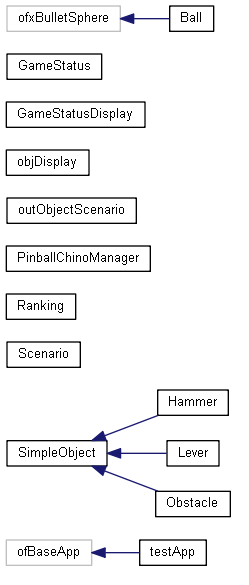
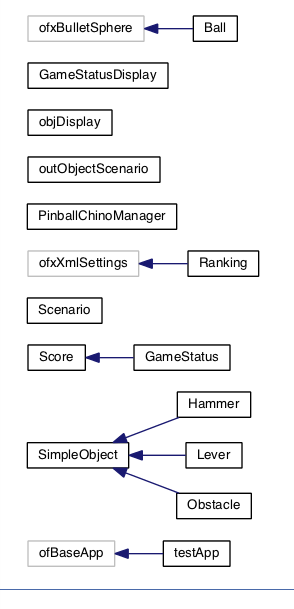
ranking now loading from xml

Changed region(s): [[0.0, 0.0, 1.0, 0.9846]]

diff --git a/src/Managers/Ranking.cpp b/src/Managers/Ranking.cpp
@@ -1,10 +1,68 @@
 #include "Ranking.h"
 
+//------------------------------
 Ranking::Ranking(void){
+
+    
+
 }
 
+//------------------------------
 void Ranking::saveXmlScore(Score score){
+    rank.push_back(score);
+    
+    addTag("ranking");
+    pushTag("ranking");
+    
+    for(int i = 0; i < rank.size(); i++){
+        
+        addTag("score");
+        pushTag("score",i);
+        
+        addValue("idPlayer", rank[i].idPlayer);
+        addValue("lastMission", rank[i].lastMission);
+        addValue("points", rank[i].points);
+        popTag();//pop position
+    }
+    popTag(); //pop position
+    saveFile("ranking.xml");
 }
 
+//-----------------------------
 void Ranking::loadXmlRanking(){
+    
+    
+    if(loadFile("ranking.xml")){
+        pushTag("ranking");
+        numberOfSavedPoints = getNumTags("score");
+        for(int i = 0; i < numberOfSavedPoints; i++){
+            pushTag("score", i);
+            
+            Score s;
+            s.idPlayer = getValue("idPlayer", 0);
+            s.lastMission = getValue("lastMission", 0);
+            s.points = getValue("points", 0);
+            
+            rank.push_back(s);
+            popTag();
+        }
+        
+        popTag(); //pop position
+    }
+    else{
+        ofLogError("Position file did not load!");
+    }
+
+}
+
+//-----------------------------
+Score Ranking::getMaxScore(void){
+    Score maxScore;
+    maxScore.points = 0;
+    for(int i = 0; i < rank.size(); i++){
+        if (maxScore.points < rank[i].points)
+            maxScore = rank[i];
+    }
+    
+    return maxScore;
 }

diff --git a/src/Managers/GameStatus.cpp b/src/Managers/GameStatus.cpp
@@ -30,12 +30,24 @@ void GameStatus::NewPlayer(void){
 	idPlayer += 1;
 	points = 0;
     status = SETTING_UP_THE_GAME;
+    myRanking.loadXmlRanking();
     
 }
 
 //---------------------------------------
 void GameStatus::saveRanking(void){
+    Score score;
+    
+    score.idPlayer = idPlayer;
+    score.lastMission = lastMission;
+    score.points = points;
+    myRanking.saveXmlScore(score);
+    
+}
 
+//---------------------------------------
+Score GameStatus::getBestScore(void){
+    return myRanking.getMaxScore();
 }
 
 //---------------------------------------

diff --git a/src/Managers/Ranking.h b/src/Managers/Ranking.h
@@ -1,10 +1,17 @@
 #pragma once
 #include "Score.h"
+#include "ofxXmlSettings.h"
 
-class Ranking: public Score{
+class Ranking: public ofxXmlSettings
+{
 public:
 	Ranking(void);
 	void saveXmlScore(Score score);
 	void loadXmlRanking();
-
+    Score getMaxScore(void);
+private:
+    int numberOfSavedPoints;
+    vector<Score> rank;
+                   
+                   
 };

diff --git a/src/Managers/GameStatus.h b/src/Managers/GameStatus.h
@@ -30,6 +30,10 @@ public:
 	int GetPlayerId(void);
     int GetCurrentPlayerScore(void);
     
+    Score getBestScore(void);
+    
+    
+    
     enum enGameStatus{
         WAITING_NEW_PLAYER = 0,
         SETTING_UP_THE_GAME,

diff --git a/src/Managers/Score.h b/src/Managers/Score.h
@@ -13,7 +13,6 @@ class Score{
 public:
     Score();
     Score(int idPlayer, int lastMission, int points);
-protected:
     int idPlayer, lastMission, points;
 };
 
